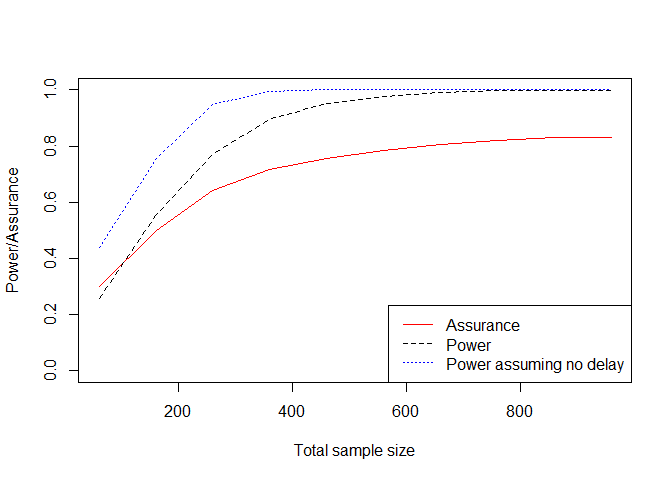
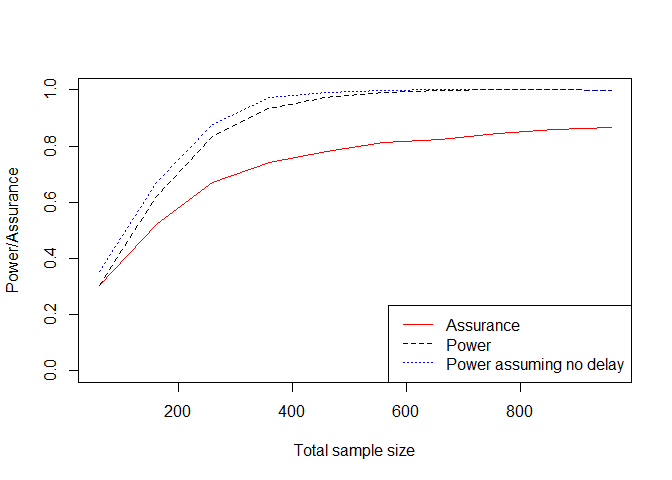
adding the Readme

diff --git a/README.md b/README.md
@@ -29,7 +29,7 @@ You can install the development version of DTEAssurance from
 
 ``` r
 devtools::install_github("jamesalsbury/DTEAssurance")
-#> Skipping install of 'DTEAssurance' from a github remote, the SHA1 (10b7ecbd) has not changed since last install.
+#> Skipping install of 'DTEAssurance' from a github remote, the SHA1 (9ea69d00) has not changed since last install.
 #>   Use `force = TRUE` to force installation
 ```
 
@@ -129,18 +129,18 @@ HRStarBeliefs <- SHELF::fitdist(c(0.55, 0.6, 0.7), probs = c(0.25, 0.5, 0.75), l
 
 DTEAssurance::calculateAssurance(n_C = 100, n_E = 100, lambda_C = lambda_Csample, HRStar = HRStarBeliefs, HRStarDist = "gamma", gamma_C = gamma_Csample, gamma_E = gamma_Csample, delayT = TBeliefs, delayTDist = "gamma",
                                P_S = P_S, P_DTE = P_DTE, censEvents = 200*0.8, rec_method = "power", rec_period=12, rec_power=1, 
-                               analysis_method = "LRT", nSims=5e2)
+                               analysis_method = "WLRT", rho = 0, gamma = 1, nSims=1e1)
 #> $assurance
-#> [1] 0.614
+#> [1] 0.6
 #> 
 #> $duration
-#> [1] 30.27034
+#> [1] 28.86784
 #> 
 #> $LBAssurance
-#> [1] 0.5713274
+#> [1] 0.2963581
 #> 
 #> $UBAssurance
-#> [1] 0.6566726
+#> [1] 0.9036419
 ```
 
 ### Plotting Assurance curve
@@ -154,7 +154,7 @@ resultsAssurance <- sapply(nVec, function(n_C){
   DTEAssurance::calculateAssurance(n_C = n_C, n_E = n_E, lambda_C = lambda_Csample, HRStar = HRStarBeliefs, HRStarDist = "gamma",
                      gamma_C = gamma_Csample, gamma_E = gamma_Csample, delayT = TBeliefs, delayTDist = "gamma",
                      P_S = P_S, P_DTE = P_DTE, censEvents = censEvents, rec_method = "power", rec_period=12, rec_power=1,
-                     analysis_method = "LRT", nSims=5e3)
+                     analysis_method = "WLRT", rho = 0, gamma = 1, nSims=1e3)
 })
 
 
@@ -186,7 +186,7 @@ resultsPower <- sapply(nVec, function(n_C){
   DTEAssurance::calculateAssurance(n_C = n_C, n_E = n_E, lambda_C = MLE_lambdaC, HRStar = HRStarBeliefs, HRStarDist = "gamma",
                      gamma_C = MLE_gammaC, gamma_E = MLE_gammaC, delayT = TBeliefs, delayTDist = "gamma",
                      P_S = P_S, P_DTE = P_DTE, censEvents = censEvents, rec_method = "power", rec_period=12, rec_power=1,
-                     analysis_method = "LRT", nSims=5e3)
+                     analysis_method = "WLRT", rho = 0, gamma = 1, nSims=1e3)
 })
 
 
@@ -214,7 +214,7 @@ resultsPowerND <- sapply(nVec, function(n_C){
   DTEAssurance::calculateAssurance(n_C = n_C, n_E = n_E, lambda_C = MLE_lambdaC, HRStar = HRStarBeliefs, HRStarDist = "gamma",
                      gamma_C = MLE_gammaC, gamma_E = MLE_gammaC, delayT = TBeliefs, delayTDist = "gamma",
                      P_S = P_S, P_DTE = P_DTE, censEvents = censEvents, rec_method = "power", rec_period=12, rec_power=1,
-                     analysis_method = "LRT", nSims=5e3)
+                      analysis_method = "WLRT", rho = 0, gamma = 1, nSims=1e3)
 })
 
 
